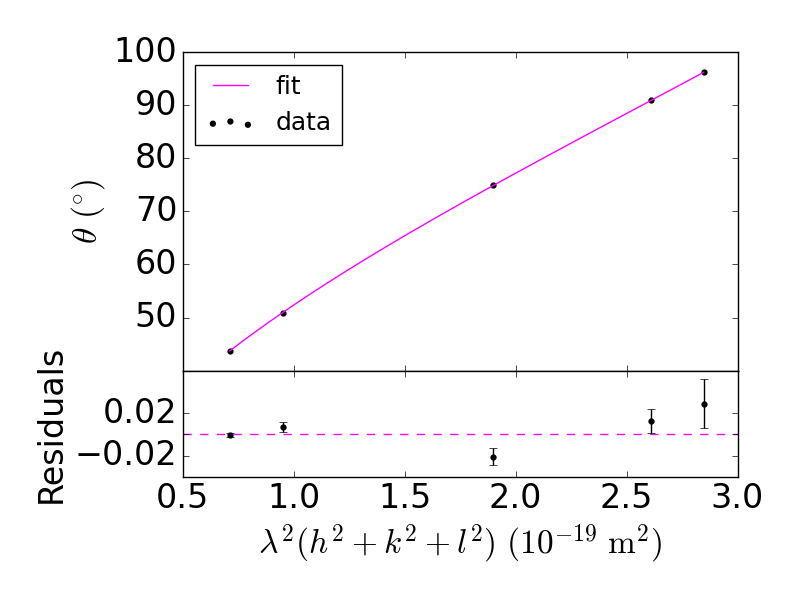
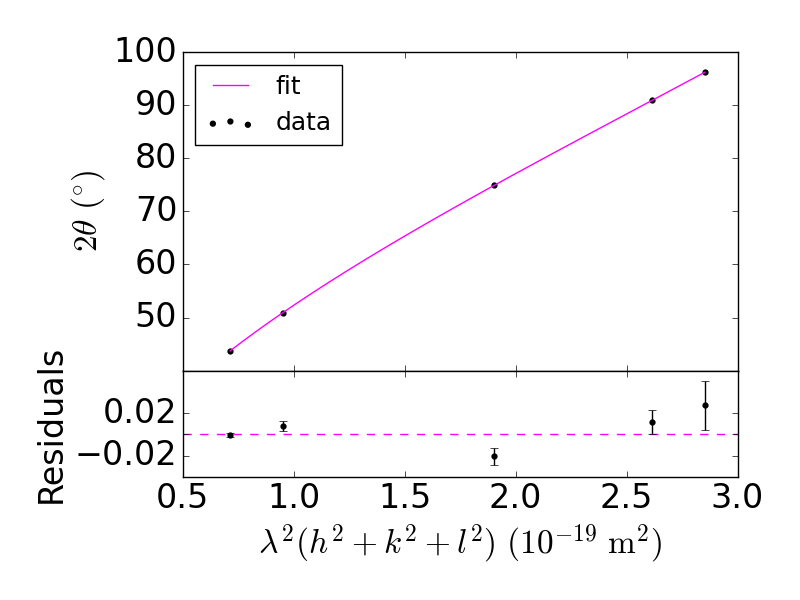
fixed a value in x and created a script to setup the double peak fitting next week

diff --git a/x_double_fit.py b/x_double_fit.py
@@ -9,7 +9,7 @@ import spify
 #the new fitting fit needs to work with different h,k,l
 # Make a wrapper that will generate fitting functions with different h,k,l 
 def shape_func(lmda_sqd_times_combined_hkl, a, theta_0):
-    return np.rad2deg(np.arcsin(np.sqrt(lmda_sqd_times_combined_hkl/ (4* a**2)) + theta_0)) * 2
+    return np.rad2deg(np.arcsin(np.sqrt(lmda_sqd_times_combined_hkl/ (4* a**2)) )) * 2 + 2*theta_0
 
 #GAUSSIAN FIRST TRY
 def fit_func(x, *argvs):
